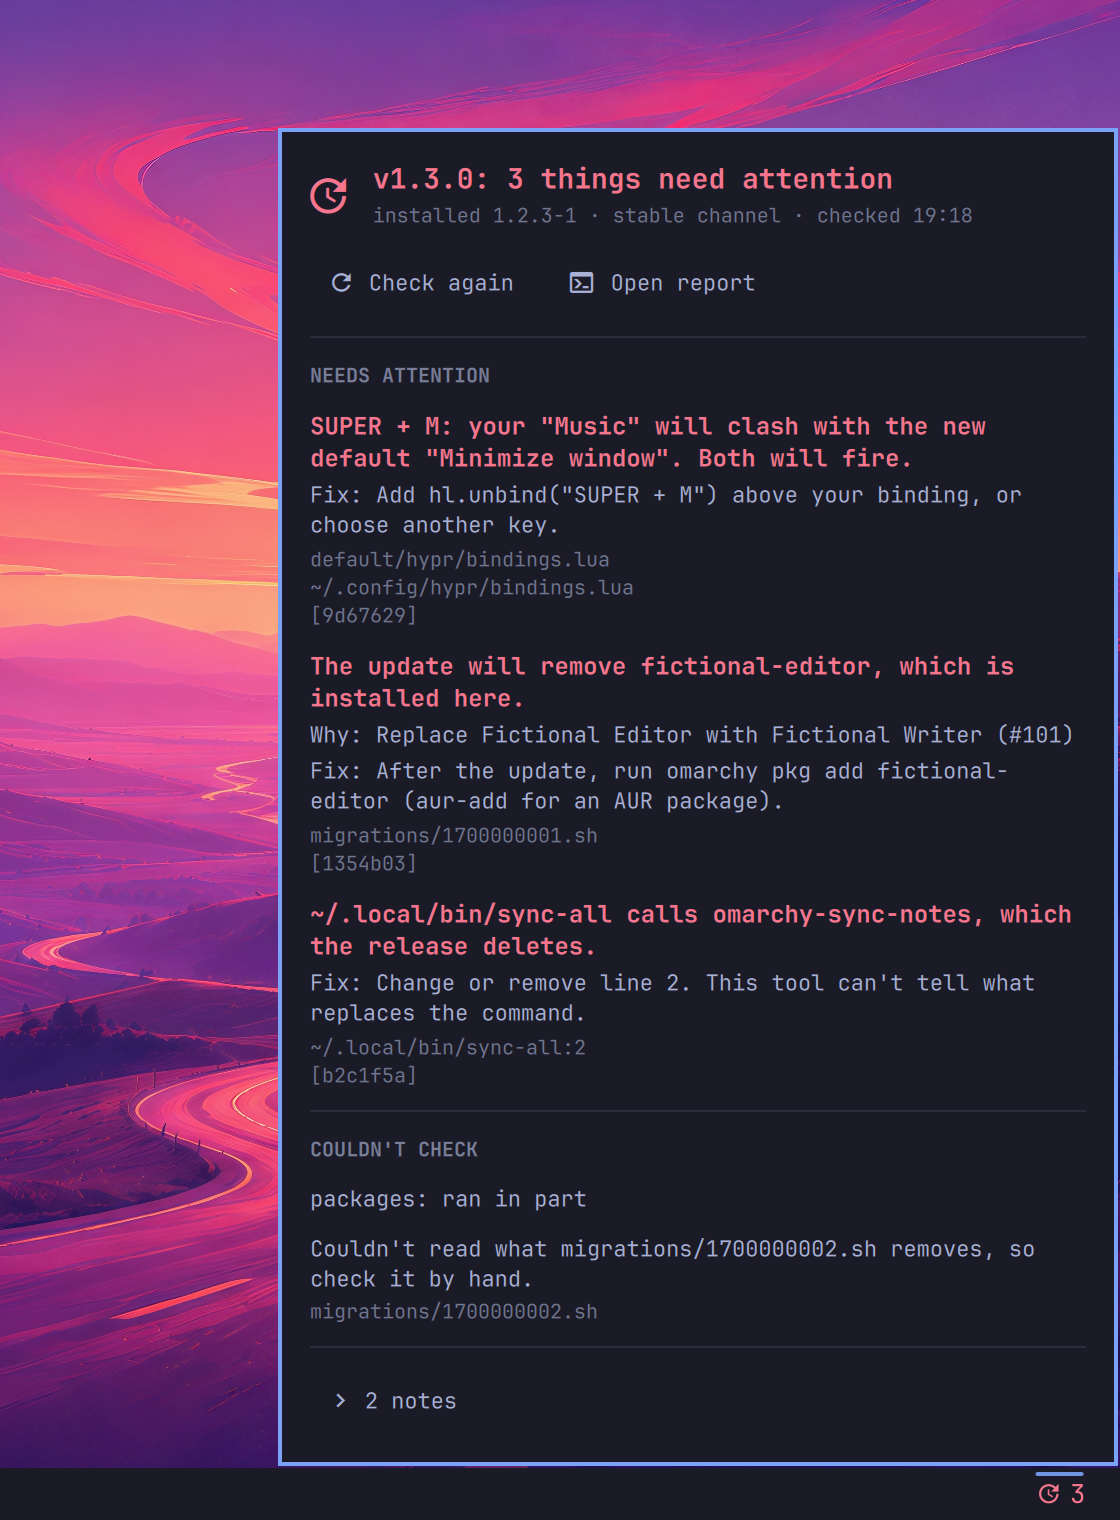
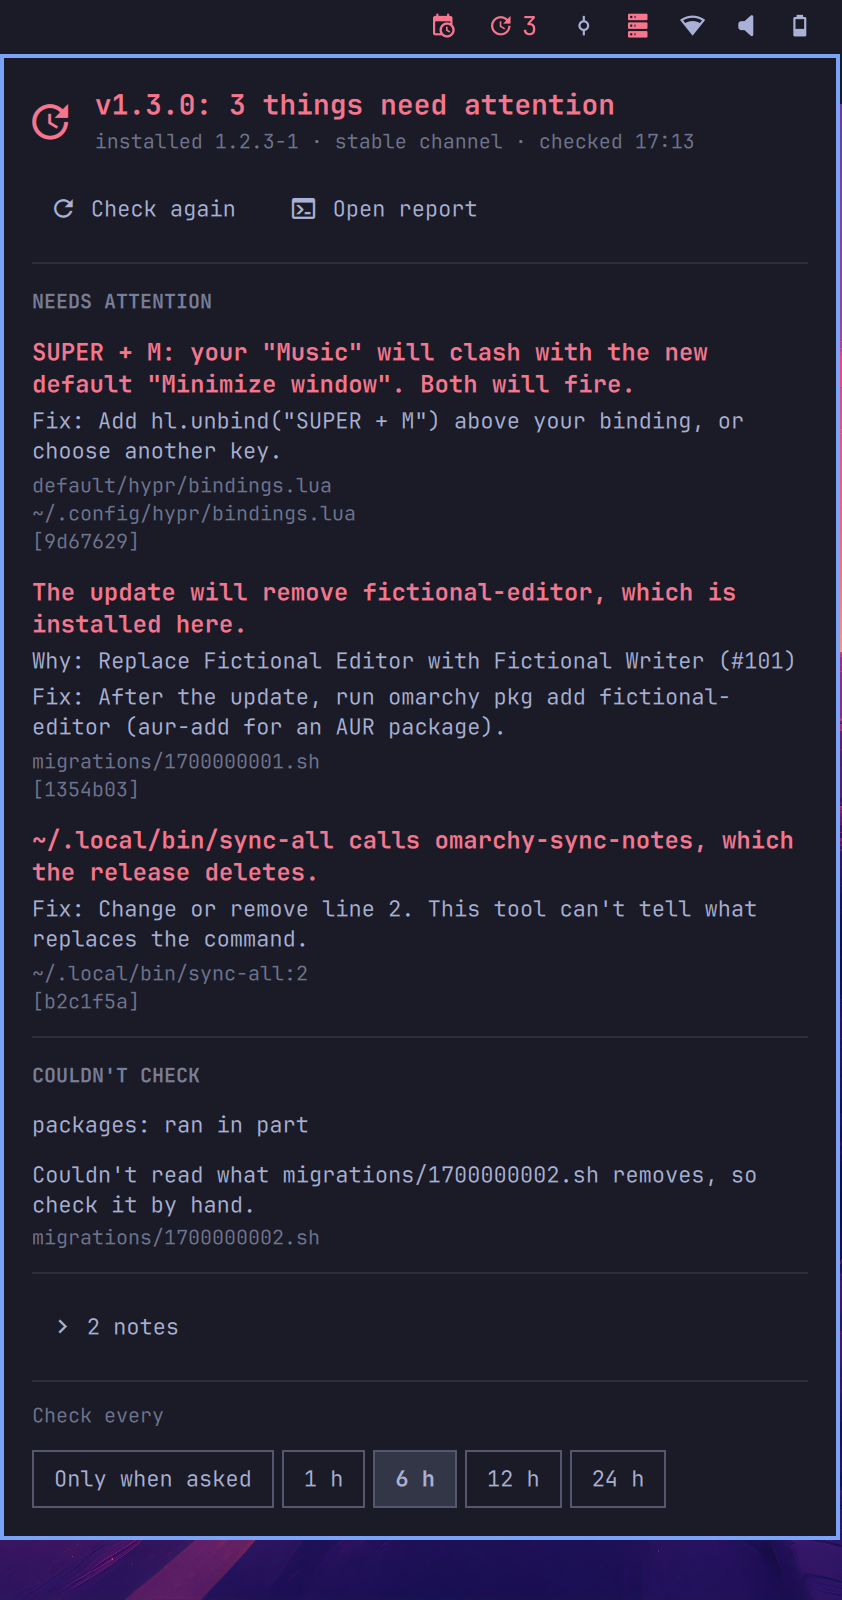
023: prepare 0.2.0, drop the AUR package, put the plugin first
- 0.2.0 in __version__, manifest.json and the CHANGELOG, which now names the
  plugin, its panel, checking a newer release and choosing how often.
- packaging/aur and its version test are gone. The spec's Install and the
  backlog say why, and that it can come back from git history.
- The README's Install puts the plugin first, says each install works on its
  own, says where a plugin-only user finds the command for --ack, and clones
  the release tag. Tests hold the clone's tag and the CHANGELOG to the version.
- preview.png shows the icon in a top bar, left of fleetlog's.

diff --git a/tests/test_end_to_end.py b/tests/test_end_to_end.py
@@ -761,9 +761,13 @@ class Version(RealCommand):
         self.assert_exit(result, 0)
         self.assertEqual(result.stdout, f"omaupdateimpact {impact.__version__}\n")
 
-    def test_the_aur_package_has_the_same_version(self):
-        package = (COMMAND.parent.parent / "packaging/aur/PKGBUILD").read_text()
-        self.assertIn(f"\npkgver={impact.__version__}\n", package)
+    def test_the_readme_clones_this_version(self):
+        readme = (COMMAND.parent.parent / "README.md").read_text()
+        self.assertIn(f"git clone --branch v{impact.__version__} https://", readme)
+
+    def test_the_changelog_names_this_version(self):
+        changelog = (COMMAND.parent.parent / "CHANGELOG.md").read_text()
+        self.assertIn(f"\n## {impact.__version__} (", changelog)
 
     def test_help_explains_the_options_for_other_trees(self):
         text = flat(self.command("--help").stdout)

diff --git a/README.md b/README.md
@@ -58,36 +58,17 @@ omaupdateimpact is unofficial. It isn't affiliated with Omarchy or 37signals.
 
 ## Install
 
-Needs Python 3.11.4 or newer. `qmllint` is optional, and comes with `qt6-declarative`.
+Needs Python 3.11.4 or newer, which Omarchy already has. `qmllint` is optional, and
+comes with `qt6-declarative`.
 
-```
-git clone https://github.com/Frestina/omaupdateimpact.git
-cd omaupdateimpact
-./install.sh
-```
-
-That links the command into `~/.local/bin`, so keep the clone where it is. Running
-it twice is harmless, and it won't replace a file that isn't its own link.
-
-To also add an "Omarchy Impact" row to the Omarchy menu, under Update, run
-`./install.sh --menu` instead. The row opens the report in a terminal. It goes in
-`~/.config/omarchy/extensions/omarchy-menu.jsonc`, between two marked comment
-lines, and nothing else in that file changes. If that file is written on one line,
-the line is split after its `{`, and stays split after you remove the row.
-
-To update, run `git pull` in the clone. To remove it, run this there:
-
-```
-./install.sh --uninstall
-```
-
-That removes the link, and the menu row if you added it. It tells you where the
-cache and your reviewed findings are, and leaves them for you to delete.
+There are two ways to install it, and each works on its own. The plugin puts an
+icon in the bar and brings its own command. The terminal install puts the command
+on your `PATH`, with an optional row in the Omarchy menu. You need only one.
 
 ### In the bar
 
-The same repository is an Omarchy shell plugin. It puts an icon in the bar that
-shows the result, for when you'd rather not open a terminal:
+The repository is an Omarchy shell plugin. It puts an icon in the bar that shows
+the result, for when you'd rather not open a terminal:
 
 ```
 omarchy plugin add https://github.com/Frestina/omaupdateimpact.git --enable
@@ -111,11 +92,49 @@ omarchy plugin add https://github.com/Frestina/omaupdateimpact.git --enable
   It saves `checkEveryHours` on the widget's entry in `~/.config/omarchy/shell.json`,
   the only thing the panel changes. Another value set there by hand, up to 168, is
   kept.
-- To mark a finding reviewed, use `--ack` in a terminal.
 
-`omarchy plugin remove io.github.frestina.omaupdateimpact` deletes the plugin's
-folder. The cache in `~/.cache/omaupdateimpact` and your reviewed findings in
-`~/.config/omaupdateimpact/reviewed` stay, for you to delete.
+To mark a finding reviewed, use `--ack` in a terminal. The plugin's command is in
+its folder, so with the plugin alone you run it from there:
+
+```
+~/.config/omarchy/plugins/io.github.frestina.omaupdateimpact/bin/omaupdateimpact --ack 3344d3a
+```
+
+Or run `./install.sh` in that folder once, and `omaupdateimpact` is on your `PATH`.
+Run `./install.sh --uninstall` there before you remove the plugin.
+
+To update, run `omarchy plugin update io.github.frestina.omaupdateimpact`. To
+remove it, run `omarchy plugin remove io.github.frestina.omaupdateimpact`, which
+deletes the plugin's folder. The cache in `~/.cache/omaupdateimpact` and your
+reviewed findings in `~/.config/omaupdateimpact/reviewed` stay, for you to delete.
+
+### In the terminal
+
+```
+git clone --branch v0.2.0 https://github.com/Frestina/omaupdateimpact.git
+cd omaupdateimpact
+./install.sh
+```
+
+That gets the release, and links the command into `~/.local/bin`, so keep the clone
+where it is. `install.sh` makes that one link, and downloads nothing. Running it twice
+is harmless, and it won't replace a file that isn't its own link.
+
+To also add an "Omarchy Impact" row to the Omarchy menu, under Update, run
+`./install.sh --menu` instead. The row opens the report in a terminal. It goes in
+`~/.config/omarchy/extensions/omarchy-menu.jsonc`, between two marked comment
+lines, and nothing else in that file changes. If that file is written on one line,
+the line is split after its `{`, and stays split after you remove the row.
+
+To update, run `git fetch --tags` in the clone, then `git checkout` the newest tag
+in [CHANGELOG.md](CHANGELOG.md). To remove it, run this there:
+
+```
+./install.sh --uninstall
+```
+
+That removes the link, and the menu row if you added it. It tells you where the
+cache and your reviewed findings are, and leaves them for you to delete.
 
 ## Usage
 

diff --git a/SPEC.md b/SPEC.md
@@ -627,8 +627,8 @@ only its own setting, when you choose one, and its command writes only these. Se
 It needs Python 3.11.4, because `tarfile`'s `filter=` does. An older Python gets one
 line on stderr and exit 2. That check comes before the other imports, and the file
 has to parse on an old Python for it to run, so it uses no syntax newer than 3.7.
-`--version` reads `__version__` in the command, and the AUR package repeats that
-number because a `PKGBUILD` must state it. A test holds the two together.
+`--version` reads `__version__` in the command, and `manifest.json` repeats it for
+the plugin. A test holds the two together. A release's tag is made from it.
 
 `install.sh` links the command into `~/.local/bin`, which Omarchy puts on `PATH`,
 and creates that folder if it's missing. It runs `--version` first, so a Python
@@ -679,8 +679,10 @@ move it. The format was checked against the menu code in v4.0.6 and v4.5.0-rc2.
 broken block is left alone with exit 1, and the link still goes. It says nothing
 about the menu when there is no block.
 
-The AUR package is in `packaging/aur`, and isn't published. It installs to `/usr/bin`
-and doesn't use `install.sh`.
+There are two ways to install, and each works on its own: the plugin, which brings
+its own command (see [Plugin](#plugin)), and the clone with `install.sh`, for the
+terminal and the menu row. There is no package. The AUR package was removed in 023,
+as publishing one needs an AUR account. It can come back from git history.
 
 ## Plugin
 
@@ -851,6 +853,12 @@ anything. Marking a finding reviewed stays in the terminal, with `--ack`, for no
   prints a golden document. Omarchy's own services are off in it but for the
   wallpaper, which shows the demo theme's own. It writes `preview.png`, or one image
   per theme with `--out`, and stops that shell, whatever happens.
+- The preview shows the icon in a bar at the top, just left of fleetlog's, as on the
+  owner's bar. Frestina's other plugins are public, so they may show. `demo/run`
+  copies them from the commits in the user's plugins folder, and they read the
+  fictional home, so they show no data. The demo bar sits under the user's, and its
+  panel places itself below one bar, so it covers the demo bar. The image is that
+  bar, taken before the panel opens, above the panel, cut at the panel's left edge.
 
 ## Docs
 

diff --git a/CHANGELOG.md b/CHANGELOG.md
@@ -1,8 +1,17 @@
 # Changelog
 
-## Unreleased
+## 0.2.0 (2026-11-04)
 
-- `--json` prints one document for scripts and the coming bar plugin: what was
+- An Omarchy shell plugin, from this same repository. An icon in the bar shows the
+  result: faded when nothing needs attention, a count when something does, and a
+  `?` when it couldn't check. Click it for a panel with what needs attention and
+  each fix, what couldn't be checked, and the notes. It runs its own command with
+  `--json`, and holds no rules. Install it with `omarchy plugin add`.
+- When you are up to date and another channel has a newer release, the panel names
+  it, and "Check" shows that release's report in a terminal.
+- The plugin checks 2 minutes after login, then every 6 hours. "Check every" in the
+  panel changes that: only when asked, 1, 6, 12 or 24 hours.
+- `--json` prints one document for scripts and the bar plugin: what was
   checked, each check's state, and every finding with its evidence. Every exit code
   has one. See [docs/json.md](docs/json.md).
 - A new check reads the migrations you haven't run for files of yours they look like

diff --git a/tickets/BACKLOG.md b/tickets/BACKLOG.md
@@ -43,10 +43,9 @@ Paths already ruled out are not here; they are under
   Waits for someone to need it.
 - **Several machines.** Run the check on every machine you own. Waits for 0.1.0
   and `--json`.
-- **The AUR package.** `packaging/aur` builds, but publishing means an account and a
-  new package for every release, and the clone install already works. Waits for
-  someone to ask, or for 021 to need it. To publish: set the checksum from the tagged
-  tarball, generate `.SRCINFO`, and add it to the README's Install section.
+- **The AUR package.** Removed in 023: it was never published, and publishing needs
+  an AUR account. `packaging/aur` can come back from git history if someone gets
+  one. The rule that a command in `/usr/bin` leaves none of your files out stays.
 
 ## Limits to keep watching
 

diff --git a/tickets/README.md b/tickets/README.md
@@ -72,4 +72,4 @@ when.
 | 022 | [Bar widget and panel](022-plugin-panel.md) | 021, 028 | done |
 | 027 | [Two runs share the cache](027-two-runs-share-the-cache.md) | 005 | done |
 | 029 | [Check a newer release, and choose how often, from the panel](029-panel-release-and-interval.md) | 022 | done |
-| 023 | [Marketplace listing](023-marketplace-listing.md) | 015, 022, 027, 029 | todo |
+| 023 | [Marketplace listing](023-marketplace-listing.md) | 015, 022, 027, 029 | in progress |
